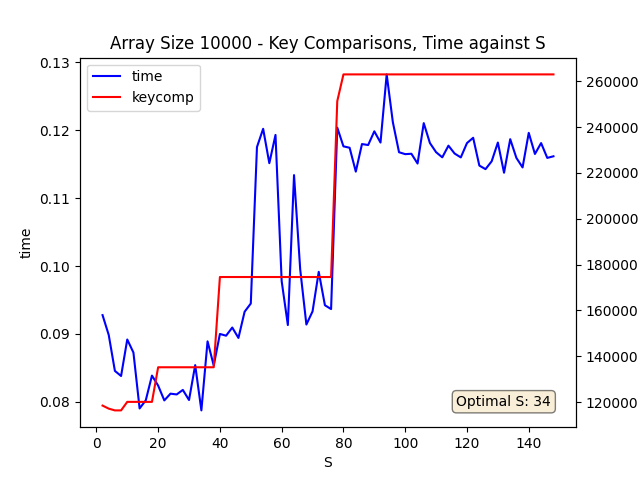
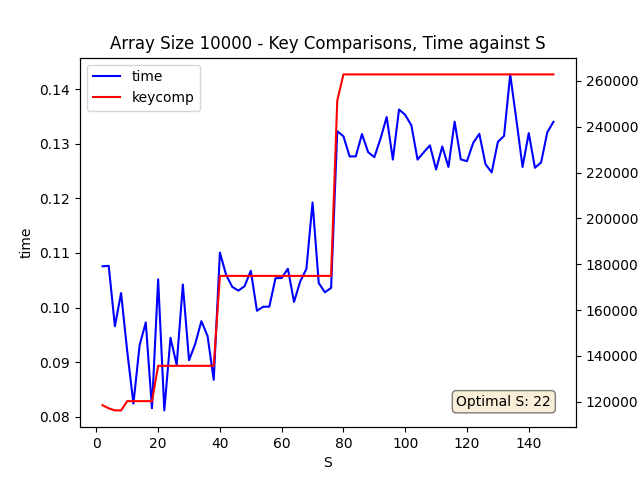
Editted Script

diff --git a/SC2001_Project1/eugene/hybridSort.py b/SC2001_Project1/eugene/hybridSort.py
@@ -5,13 +5,13 @@ import matplotlib.pyplot as plt
 
 max_size = 10000000
 max_n = 100000
-initial_size = 1000
+initial_size = 1000000
 count = 0
 
 def generateRandomList(size, max_value):
     
     arr = []
-    for _ in range(2):
+    for _ in range(1):
         arr.append([random.randint(1, max_value) for _ in range(size)])
         size *= 10
 
@@ -78,6 +78,7 @@ def hybrid_sort(arr, s):
 
 count=0
 S = 10
+runs = 5
 
 for array in unsorted: 
     input_array = array
@@ -86,12 +87,12 @@ for array in unsorted:
     optimal_time = 0
     print("\nArray Size: {}".format(str(len(input_array))))
 
-    for s in range(2, 150, 2):
+    for s in range(5, 300, 5):
 
         total_time = 0
         count = 0    
 
-        for _ in range(200):
+        for _ in range(runs):
             temp_array = input_array.copy()
 
             start_time = time.time()
@@ -99,14 +100,14 @@ for array in unsorted:
             elapsed_time = time.time() - start_time
             total_time += elapsed_time
 
-        if optimal_time > total_time/10:
-            optimal_time = total_time/10
+        if optimal_time > total_time/runs:
+            optimal_time = total_time/runs
             optimal_S = s
         elif optimal_time == 0:
             optimal_S = s
-            optimal_time = total_time/10
+            optimal_time = total_time/runs
 
-        results.append([s, count/10, total_time/10])
+        results.append([s, count/runs, total_time/runs])
         print("Progress: " + str(s))
         
         
@@ -152,4 +153,4 @@ for array in unsorted:
 
     # Show the plot
     
-    plt.savefig('C:/Users/eugen/Desktop/Coding/Coding Projects/Github Repo/AlgoLads/SC2001_Project1/eugene/Charts/size_{}_time_keycomp_against_S.png'.format(str(len(input_array))))
+    plt.savefig('C:/Users/eugen/Desktop/Coding/Coding Projects/Github Repo/AlgoLads/SC2001_Project1/eugene/Charts/size_{}_time_keycomp_against_S_{}_runs.png'.format(str(len(input_array)), runs))
